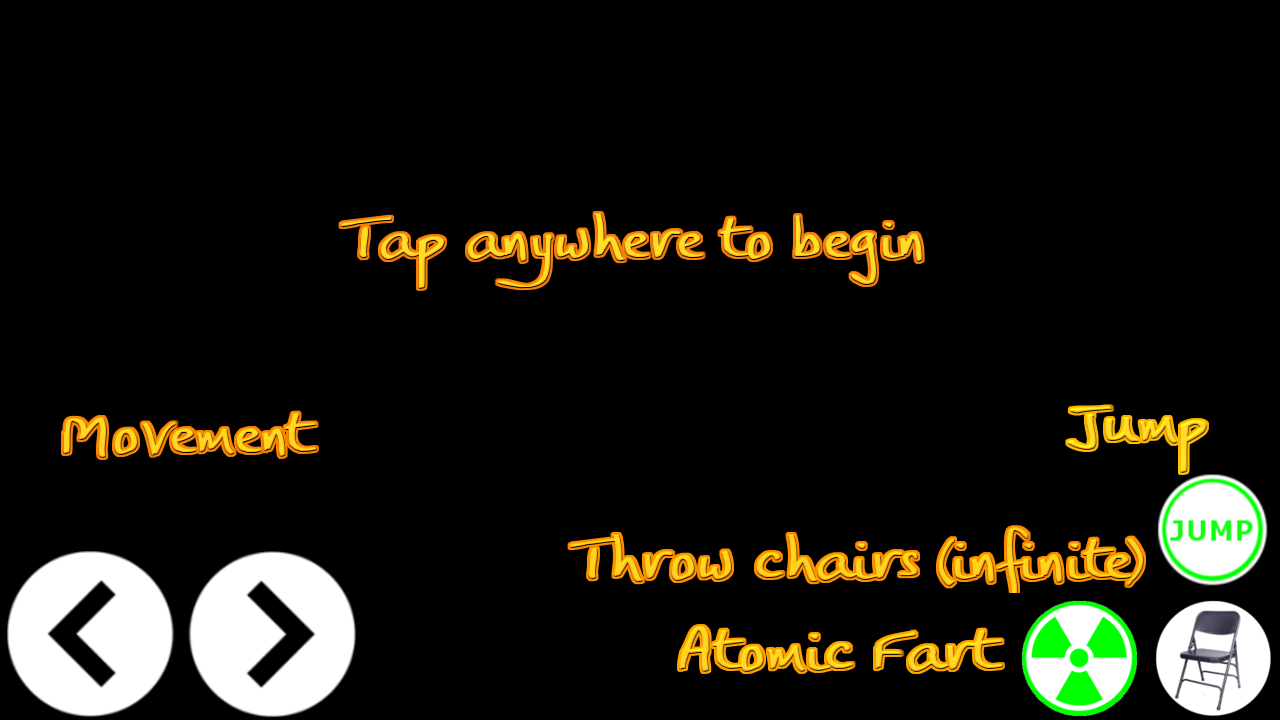
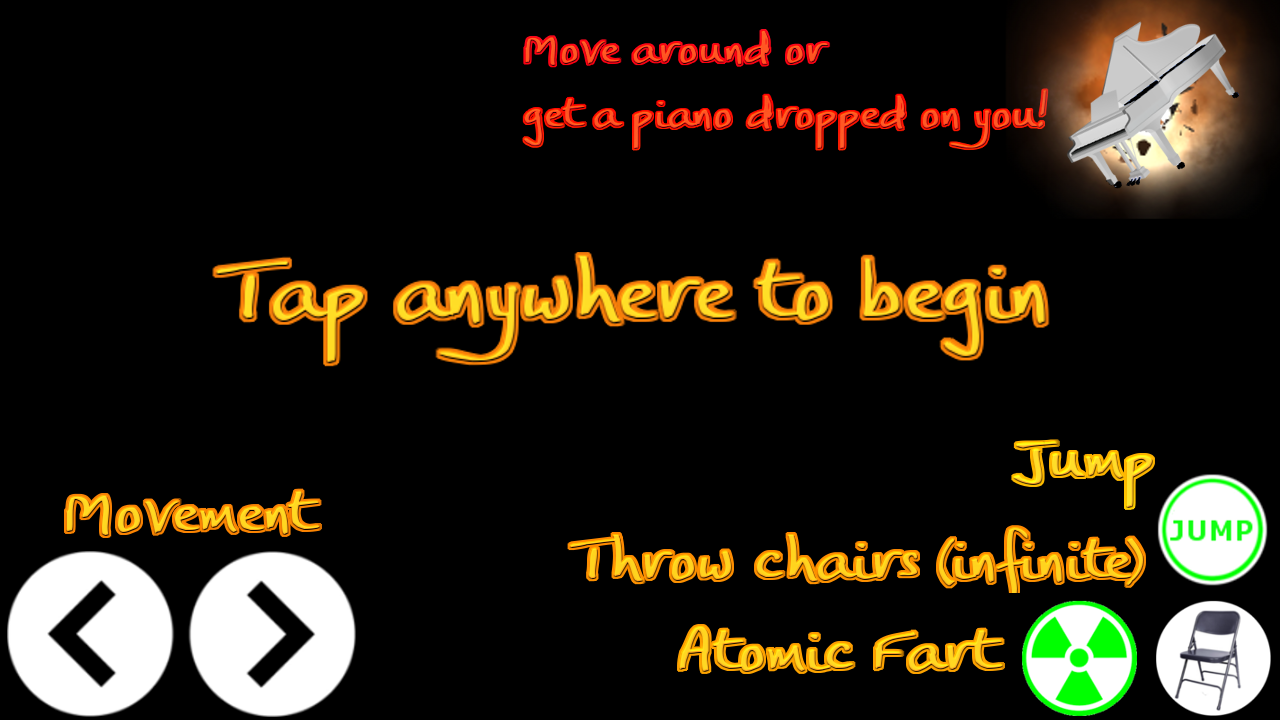
PianoHandler and Tutorial Finished

diff --git a/core/src/com/chopstickphoenix/miniwrestlesurvival/dynamicObjects/handlers/HandlerPiano.java b/core/src/com/chopstickphoenix/miniwrestlesurvival/dynamicObjects/handlers/HandlerPiano.java
@@ -2,7 +2,9 @@ package com.chopstickphoenix.miniwrestlesurvival.dynamicObjects.handlers;
 
 import com.badlogic.gdx.graphics.g2d.Animation;
 import com.badlogic.gdx.graphics.g2d.Sprite;
+import com.badlogic.gdx.graphics.g2d.SpriteBatch;
 import com.badlogic.gdx.math.Rectangle;
+import com.badlogic.gdx.utils.Array;
 import com.chopstickphoenix.miniwrestlesurvival.dynamicObjects.MainCharacter;
 import com.chopstickphoenix.miniwrestlesurvival.utilities.AssetLoader;
 import com.chopstickphoenix.miniwrestlesurvival.utilities.GameData;
@@ -11,56 +13,131 @@ import com.chopstickphoenix.miniwrestlesurvival.utilities.GameData;
 public class HandlerPiano {
 
 	private GameData gameData;
-	private Sprite piano;
-	private Animation explosion;
+
 	private MainCharacter mainChar;
-	private Rectangle rectCollision;
 	private Rectangle rectStationaryZone;
 	private int counter;
-	private int counterThreshold;
+	private int counterThreshold = 240;
 	private static int pianoSpeed = 10;
 	private static int pianoDamage = 50;
-	private boolean boolPianoDrop;
-	private boolean boolExplosion;
-	private float animationTimer;
+	private Array<Piano> arrayPianos;
+	private Array<Explosion> arrayExplosions;
+	private int arenaFloor = 220;
+	private int pianoRotationSpeed = 20;
 
 
 	public HandlerPiano(GameData g){
 		this.gameData = g;
 		mainChar = gameData.getMainCharacter();
-		piano = new Sprite(AssetLoader.piano);
-		explosion = new Animation(1/60f, AssetLoader.explosionLarge.getRegions());
-		rectCollision = new Rectangle(mainChar.getPosition().x - piano.getWidth()/2, 720, piano.getWidth(), piano.getHeight());
 		rectStationaryZone = new Rectangle(mainChar.getPosition().x - 160, mainChar.getPosition().y, 320, 420);
-		
-		
+		arrayPianos = new Array<Piano>();
+		arrayExplosions = new Array<Explosion>();
 	}
-
-	public void update(){
-		piano.setPosition(rectCollision.x, rectCollision.y);
 		
-		if (mainChar.getRectangleCollision().overlaps(rectStationaryZone)){
-			counter++;
-
-			if(counter >= 240){
-				boolPianoDrop = true;
+		
+		public void update(){
+			
+			//Check to see if the character has stayed in the same area for 240 frames (aka 3 seconds), if so, spawn a piano and add to array
+			if (rectStationaryZone.overlaps(mainChar.getRectangleCollision())){
+				counter ++;
+				if (counter > counterThreshold){
+					createPiano();
+					counter = 0;
+				}
+			} else if (!rectStationaryZone.overlaps(mainChar.getRectangleCollision())){
+				rectStationaryZone.setPosition(mainChar.getRectangleCollision().x - 160, mainChar.getRectangleCollision().y);
+				counter = 0;
 			}
-		}else if (!mainChar.getRectangleCollision().overlaps(rectStationaryZone)){
-			rectStationaryZone.setPosition(mainChar.getPosition().x - 160, mainChar.getPosition().y);
-			counter = 0;
-			counter ++;
-		}
-	}
+			
+			//update pianos and check for collissions. If collided, do damage and animate an explosion.
+			for (Piano p : arrayPianos){
+				p.update();
+				if (p.rectCollision.overlaps(mainChar.getRectangleCollision())){
+					gameData.setHealth(gameData.getHealth() - pianoDamage);
+					createExplosion(p.rectCollision.x+32, p.rectCollision.y);
+					arrayPianos.removeValue(p, false);
+				} else if (p.rectCollision.y <= arenaFloor){
+					createExplosion(p.rectCollision.x+32, p.rectCollision.y);
+					arrayPianos.removeValue(p, false);
+				}
+			}
 
-	private void dropPiano(){
-		rectCollision.setY(rectCollision.getY() - pianoSpeed);
-		if (rectCollision.overlaps(mainChar.getRectangleCollision())){
-			gameData.setHealth(gameData.getHealth() - pianoDamage);
-			explode();
 		}
-	}
+	
+		public void draw(SpriteBatch batch, float delta){
+			for (Piano p : arrayPianos){
+				p.draw(batch);
+			}
+			for (Explosion e : arrayExplosions){
+				e.draw(batch, delta);
+				if (e.getIsFinished()){
+					arrayExplosions.removeValue(e, false);
+				}
+				
+			}
+		}
 
-	private void explode(){
+		private void createPiano(){
+			arrayPianos.add(new Piano());
+		}
 		
+		private void createExplosion(float x, float y){
+			arrayExplosions.add(new Explosion(x, y));
+		}
+		
+		
+		//		Piano Inner Class |||||   Piano Inner Class |||||   Piano Inner Class |||||   Piano Inner Class |||||
+		// 		Piano Inner Class |||||   Piano Inner Class |||||   Piano Inner Class |||||   Piano Inner Class |||||   
+		private class Piano {
+			
+			private Sprite spritePiano;
+			private Rectangle rectCollision;
+
+			public Piano() {
+				spritePiano = new Sprite(AssetLoader.piano);
+				rectCollision = new Rectangle(mainChar.getPosition().x - spritePiano.getWidth()/2, 760, spritePiano.getWidth(), spritePiano.getHeight());
+			}
+			
+			public void update() {
+				rectCollision.y -= pianoSpeed;
+			}
+			
+			public void draw(SpriteBatch batch) {
+				spritePiano.setPosition(rectCollision.x, rectCollision.y-40);
+				spritePiano.setRotation(pianoRotationSpeed);
+				spritePiano.draw(batch);
+			}
+
+		}
+		//	    Piano Inner Class |||||   Piano Inner Class |||||   Piano Inner Class |||||   Piano Inner Class |||||   
+		//		Piano Inner Class |||||   Piano Inner Class |||||   Piano Inner Class |||||   Piano Inner Class |||||
+		
+		
+		//		Explosion Inner Class   ||||    Explosion Inner Class   ||||    Explosion Inner Class   ||||    Explosion Inner Class   ||||    
+		//		Explosion Inner Class   ||||    Explosion Inner Class   ||||    Explosion Inner Class   ||||    Explosion Inner Class   ||||    
+		private class Explosion {
+			
+			private Animation explosion;
+			private float animationTimer;
+			private float x;
+			private float y;
+			private boolean isFinished;
+			
+			public Explosion (float x, float y){
+				explosion = new Animation(1/60f, AssetLoader.explosionLarge.getRegions());
+				this.x = x;
+				this.y = y;
+				AssetLoader.explosionLargeSound.play();
+			}
+			public void draw(SpriteBatch batch, float delta){
+				animationTimer += delta;
+				batch.draw(explosion.getKeyFrame(animationTimer), x, y);
+				isFinished = explosion.isAnimationFinished(animationTimer);
+			}
+			public boolean getIsFinished(){
+				return isFinished;
+			}
+		}
+		//		Explosion Inner Class   ||||    Explosion Inner Class   ||||    Explosion Inner Class   ||||    Explosion Inner Class   ||||    
+		//		Explosion Inner Class   ||||    Explosion Inner Class   ||||    Explosion Inner Class   ||||    Explosion Inner Class   ||||    
 	}
-}

diff --git a/core/src/com/chopstickphoenix/miniwrestlesurvival/screens/GameScreen.java b/core/src/com/chopstickphoenix/miniwrestlesurvival/screens/GameScreen.java
@@ -16,6 +16,7 @@ import com.chopstickphoenix.miniwrestlesurvival.dynamicObjects.handlers.HandlerE
 import com.chopstickphoenix.miniwrestlesurvival.dynamicObjects.handlers.HandlerFarts;
 import com.chopstickphoenix.miniwrestlesurvival.dynamicObjects.handlers.HandlerGameScreenInputandHUD;
 import com.chopstickphoenix.miniwrestlesurvival.dynamicObjects.handlers.HandlerLightning;
+import com.chopstickphoenix.miniwrestlesurvival.dynamicObjects.handlers.HandlerPiano;
 import com.chopstickphoenix.miniwrestlesurvival.utilities.AssetLoader;
 import com.chopstickphoenix.miniwrestlesurvival.utilities.GameData;
 
@@ -39,6 +40,7 @@ public class GameScreen implements Screen {
 	private HandlerChairs handlerChairs;
 	private HandlerLightning handlerLightning;
 	private HandlerFarts handlerFarts;
+	private HandlerPiano handlerPianos;
 	//HUD
 	private HandlerGameScreenInputandHUD handlerHUD;
 	//Fixed Timestep limited to 60FPS to avoid spiral of death on the collision detection
@@ -75,6 +77,8 @@ public class GameScreen implements Screen {
 		handlerChairs = new HandlerChairs(gameData);
 		//Fart stuff
 		handlerFarts = new HandlerFarts(gameData);
+		//Piano Stuff
+		handlerPianos =  new HandlerPiano(gameData);
 	}
 
 	@Override
@@ -124,6 +128,7 @@ public class GameScreen implements Screen {
 		mainCharacter.draw(batch, delta); // draw maincharacter after enemies so he gets 'swamped'
 		handlerEnemies.render(batch, delta);
 		handlerLightning.render(batch, delta);
+		handlerPianos.draw(batch, delta);
 		batch.end();
 		handlerHUD.drawHUD(); //used to send (batch) as parameter
 		//Batch commands end
@@ -136,6 +141,7 @@ public class GameScreen implements Screen {
 		handlerEnemies.update();
 		handlerLightning.update();
 		handlerFarts.update();
+		handlerPianos.update();
 		mainCharacter.updateHealthbar();
 		//check to see if last enemy of the round has been killed
 		if(handlerEnemies.getLastEnemySpawned() && gameData.getArrayEnemies().size == 0){

diff --git a/core/src/com/chopstickphoenix/miniwrestlesurvival/dynamicObjects/handlers/HandlerGameScreenInputandHUD.java b/core/src/com/chopstickphoenix/miniwrestlesurvival/dynamicObjects/handlers/HandlerGameScreenInputandHUD.java
@@ -123,25 +123,19 @@ public class HandlerGameScreenInputandHUD {
 	}
 	
 	
-
+// method variable.. bad place to put it I know lol
+	Vector3 vector3PausedInput = new Vector3();
 	public void handlePausedInput(){
 		Rectangle rectLevelComplete = new Rectangle(spriteLevelComplete.getX(),spriteLevelComplete.getY(), spriteLevelComplete.getWidth(),spriteLevelComplete.getHeight());
-		Vector3 vector3PausedInput = new Vector3(Gdx.input.getX(), Gdx.input.getY(), 0);	
+		vector3PausedInput.set(Gdx.input.getX(), Gdx.input.getY(), 0);	
 		cameraHUD.unproject(vector3PausedInput);
 		
 		if(gameScreen.gameState == enumGameState.LEVELCOMPLETE){
-			if(gameData.getHealth() == 100 && !voiceEndLevelPlayed){
-				AssetLoader.voiceFlawlessVictory.play();
-				voiceEndLevelPlayed = true;				
-			}		
-			if(gameData.getHealth() < 100 && !voiceEndLevelPlayed){
-				int r = MathUtils.random(1, 2);
-				if(r == 1)	AssetLoader.voiceGodlike.play();
-				if(r == 2)	AssetLoader.voiceUnstoppable.play();
+			if(!voiceEndLevelPlayed){
+				AssetLoader.voiceGodlike.play();
 				voiceEndLevelPlayed = true;
 			}		
 			if (!Gdx.input.isTouched()){
-				gameScreen.getCamera().unproject(vector3PausedInput);
 				if(rectLevelComplete.contains(vector3PausedInput.x,vector3PausedInput.y)){
 					game.setScreen(new LevelComplete(game, gameData));
 				}
@@ -154,7 +148,6 @@ public class HandlerGameScreenInputandHUD {
 				voiceEndLevelPlayed = true;
 			}
 			if (!Gdx.input.isTouched()){
-				gameScreen.getCamera().unproject(vector3PausedInput);
 				if(rectLevelComplete.contains(vector3PausedInput.x,vector3PausedInput.y)){
 					gameData.resetALL();
 					game.setScreen(new MainMenu(game, gameData));

diff --git a/core/src/com/chopstickphoenix/miniwrestlesurvival/utilities/AssetLoader.java b/core/src/com/chopstickphoenix/miniwrestlesurvival/utilities/AssetLoader.java
@@ -40,7 +40,7 @@ public class AssetLoader {
 
 	//Sounds
 	static public Sound throwChair, chairCollision, fart, footStep, voiceDenied, voiceFlawlessVictory, 
-						voiceGodlike, voiceHeadshot, voiceUnstoppable, lightning, jump, cashRegister;
+						voiceGodlike, voiceHeadshot, voiceUnstoppable, lightning, jump, cashRegister, explosionLargeSound;
 	static public Music musicLoop;
 	
 	static public void load() {
@@ -97,6 +97,7 @@ public class AssetLoader {
 		lightning = Gdx.audio.newSound(Gdx.files.internal("sounds/lightning.mp3"));
 		jump = Gdx.audio.newSound(Gdx.files.internal("sounds/jump.wav"));
 		cashRegister = Gdx.audio.newSound(Gdx.files.internal("sounds/cashRegister.mp3"));
+		explosionLargeSound = Gdx.audio.newSound(Gdx.files.internal("sounds/explosionLarge.mp3"));
 		//Enemies
 		e1Climb = new TextureAtlas(Gdx.files.internal("animations/enemy1/e1Climb.pack"));
 		e1RightFight = new TextureAtlas(Gdx.files.internal("animations/enemy1/e1RightFight.pack"));
